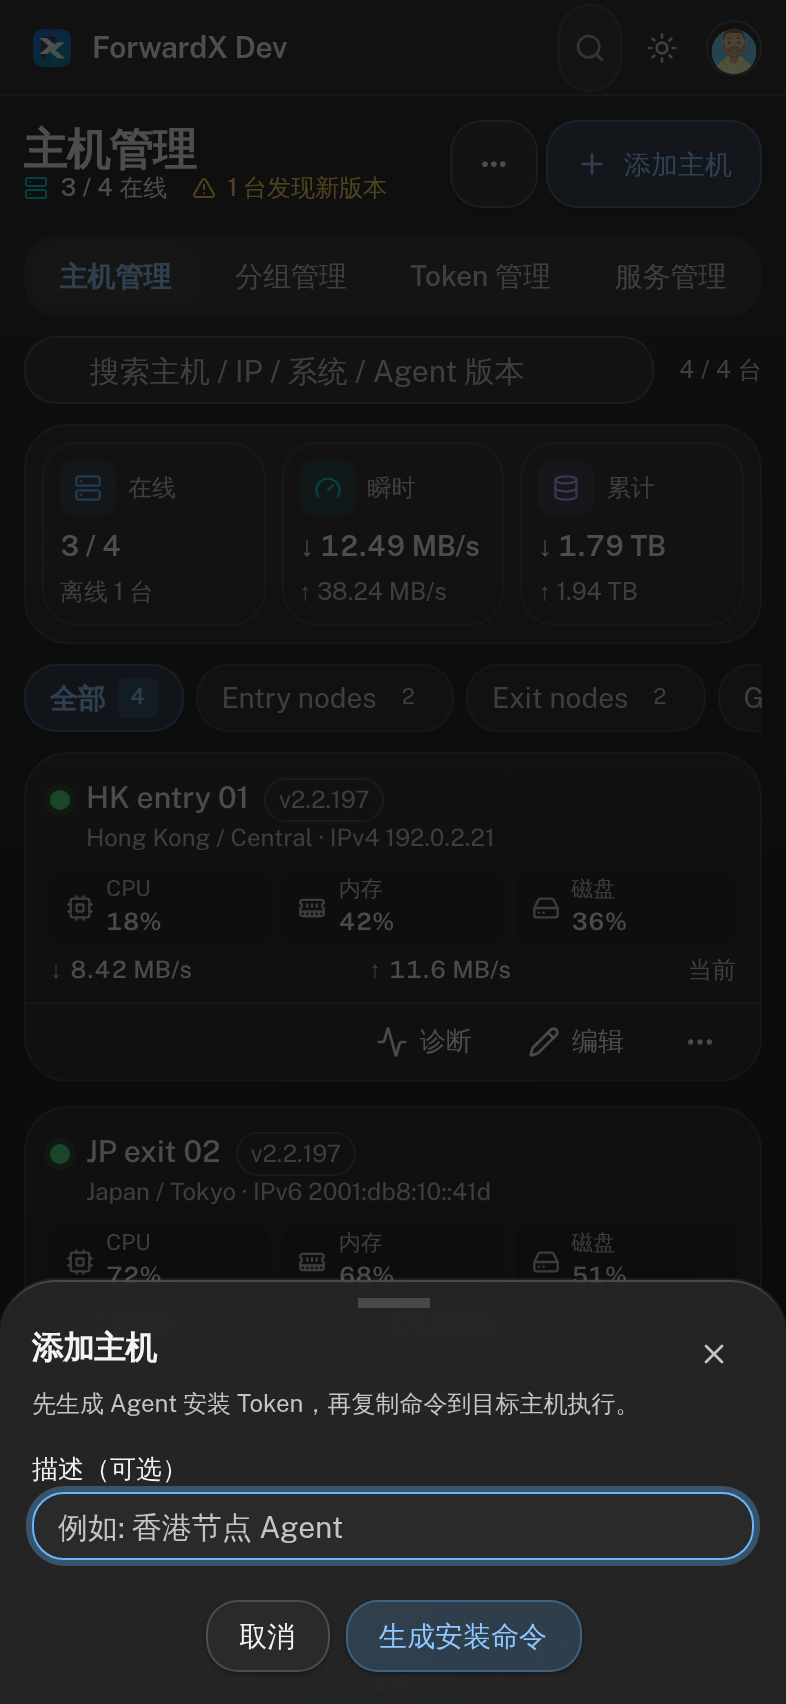
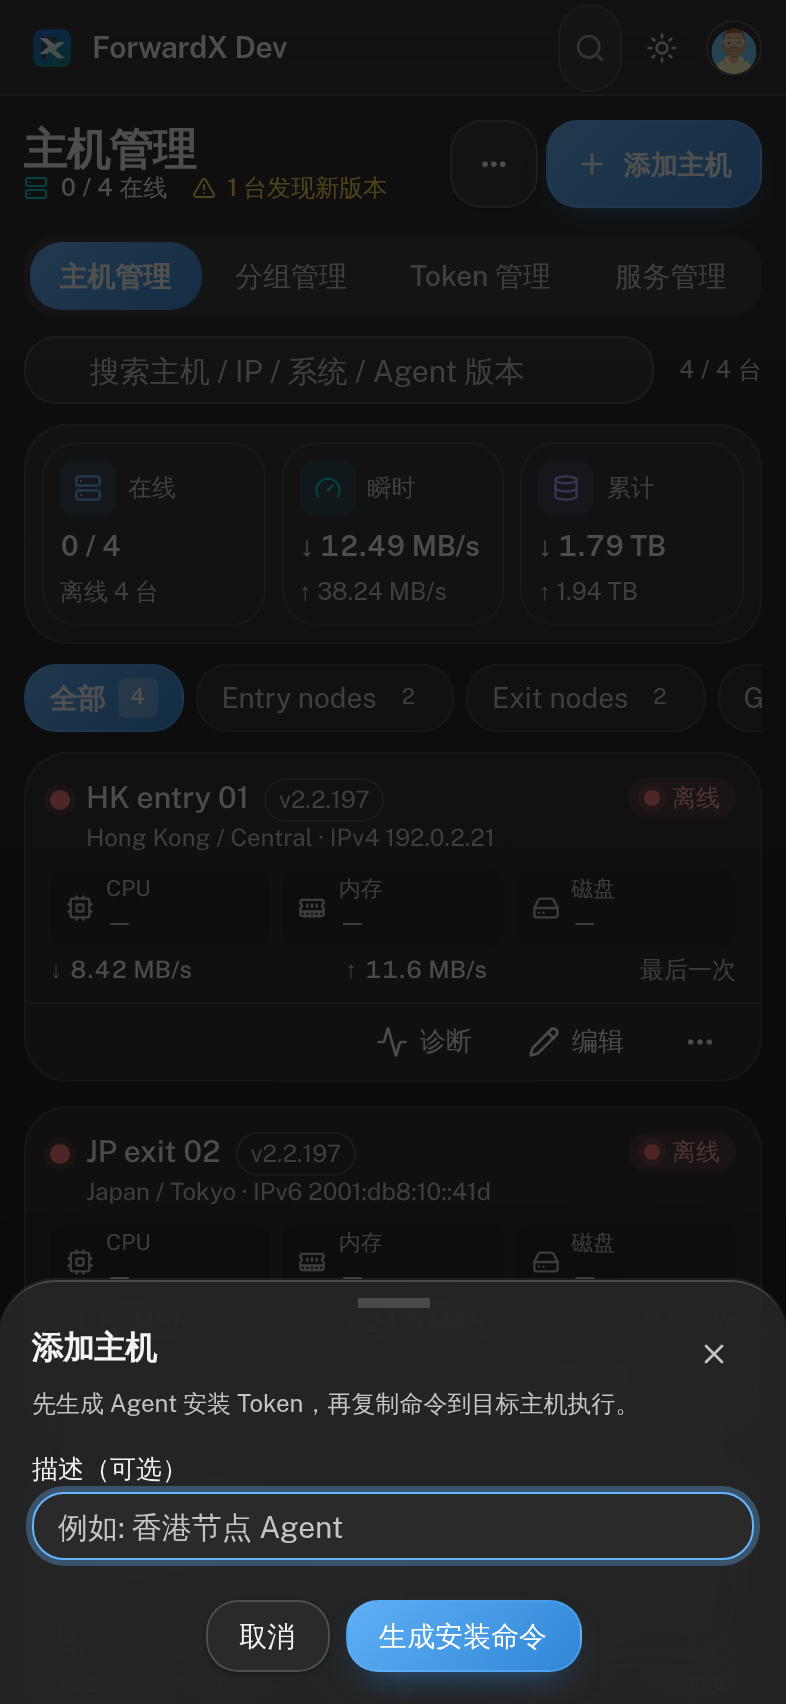
主色控件全部改成天蓝渐变
用户第三轮反馈：不止画圈的三处，所有主色控件都要改成渐变色。渐变取 kfchost 主按钮量到的值
（135deg #8ccfff → #56aaf2，白字，一圈淡线），新令牌 --fx-primary-gradient / -gradient-hover /
-sheen / -text / -stroke / -shadow，深色 #5fb0f5 → #2f86d6。

一起变的：Button default、桌面和手机的分段选中项、主机分组 chip、侧栏选中项、iOS 开关和 Radix 开关的开、
复选框的勾、分页当前页、首页 journey switch。

进度条和默认徽标不直接铺渐变图，走终点色 + 一层白色高光（--fx-primary-sheen）：它们的调用方会传状态色
（主机 CPU / 内存 / 磁盘条的绿黄红、超额的红、软底徽标），不透明的渐变图会把状态色盖掉，高光不会。

截图（after/）按最新状态重拍；文档和 CHANGELOG 同步。

Claude-Session: https://claude.ai/code/session_01D4F5S9bacpgTT23HG89MY2

diff --git a/client/src/styles/workspace.css b/client/src/styles/workspace.css
@@ -67,8 +67,8 @@
 .workspace-layout [data-sidebar="menu-button"] { color: var(--fx-text-secondary); font-size: 14px; font-weight: 500; min-height: 32px; padding-inline: 8px; border-radius: 10px; }
 .workspace-layout [data-sidebar="menu-button"] > svg { color: var(--fx-text-muted); }
 .workspace-layout [data-sidebar="menu-button"]:hover { color: var(--fx-text); background: var(--fx-hover); }
-.workspace-layout [data-sidebar="menu-button"][data-active="true"] { background: var(--fx-accent-soft); color: var(--fx-accent); font-weight: 500; box-shadow: none; }
-.workspace-layout [data-sidebar="menu-button"][data-active="true"] > svg { color: var(--fx-accent); }
+.workspace-layout [data-sidebar="menu-button"][data-active="true"] { background: var(--fx-primary-gradient); color: var(--fx-primary-text); font-weight: 600; box-shadow: none; }
+.workspace-layout [data-sidebar="menu-button"][data-active="true"] > svg { color: var(--fx-primary-text); }
 .workspace-layout [data-sidebar="group-label"] { opacity: 1; color: var(--fx-text-muted); font-size: 11px; font-weight: 500; letter-spacing: .08em; text-transform: uppercase; }
 .workspace-layout [data-mobile-header] { background: var(--fx-surface); border-color: var(--fx-stroke-weak); box-shadow: 0 1px 4px rgb(0 0 0 / 4%); }
 /*
@@ -87,12 +87,12 @@
 .workspace-tabs .workspace-tabs-list { display: flex; width: max-content; min-width: 100%; height: auto; justify-content: flex-start; gap: 2px; padding: 0; border: 0; border-radius: var(--fx-radius); background: transparent; }
 .workspace-tabs .workspace-tab { position: relative; flex: 1 0 auto; gap: 6px; min-height: 28px; border: 0; border-radius: calc(var(--fx-radius-control) - 4px); padding: 4px 12px; color: var(--fx-text-secondary); background: transparent; box-shadow: none; --tw-ring-shadow: 0 0 #0000; font-size: 13px; font-weight: 500; transition: color 150ms, background-color 150ms, box-shadow 150ms; }
 .workspace-tabs .workspace-tab > svg { color: var(--fx-text-muted); }
-.workspace-tabs .workspace-tab[data-state="active"] { color: var(--fx-text); background: var(--fx-l1-surface); box-shadow: var(--fx-elevation-control); font-weight: 600; }
-.workspace-tabs .workspace-tab[data-state="active"] > svg { color: var(--fx-text); }
-.dark .workspace-tabs .workspace-tab[data-state="active"] { background: var(--fx-hover); box-shadow: none; }
+.workspace-tabs .workspace-tab[data-state="active"] { color: var(--fx-primary-text); background: var(--fx-primary-gradient); box-shadow: none; font-weight: 600; }
+.workspace-tabs .workspace-tab[data-state="active"] > svg { color: var(--fx-primary-text); }
+.dark .workspace-tabs .workspace-tab[data-state="active"] { background: var(--fx-primary-gradient); box-shadow: none; }
 /* 计数是名字后面一个淡色的数，不是一枚胶囊 —— 胶囊会和旁边的状态徽标抢眼 */
 .workspace-tab-count { display: inline-flex; align-items: center; color: var(--fx-text-muted); font-size: 12px; font-weight: 500; font-variant-numeric: tabular-nums; }
-.workspace-tab[data-state="active"] .workspace-tab-count { color: var(--fx-text-muted); }
+.workspace-tab[data-state="active"] .workspace-tab-count { color: color-mix(in srgb, var(--fx-primary-text) 85%, transparent); }
 /*
   一行可以左右滑的选择条（主机分组那一排）。和分类条同一个道理：overflow-y 写明 hidden，
   只左右滑、不上下晃；滚动条藏起来。宽屏上放得下，照旧折行、不滚。
@@ -129,7 +129,8 @@
   按钮：主按钮和描边按钮各带一层 1px 的软影（把它从面上托起半毫米），幽灵按钮没有。
   按下时不缩放、不下沉 —— 只把底色再压深一档（--fx-pressed），反馈清楚又不晃。
 */
-[data-slot="button"][data-variant="default"], [data-slot="button"][data-variant="outline"], [data-slot="button"][data-variant="destructive"] { box-shadow: var(--fx-elevation-control); }
+[data-slot="button"][data-variant="outline"], [data-slot="button"][data-variant="destructive"] { box-shadow: var(--fx-elevation-control); }
+[data-slot="button"][data-variant="default"] { box-shadow: var(--fx-primary-shadow); }
 [data-slot="button"] { transition: background-color 120ms, color 120ms, box-shadow 120ms, border-color 120ms; }
 [data-slot="button"][data-variant="outline"]:active, [data-slot="button"][data-variant="ghost"]:active, [data-slot="button"][data-variant="secondary"]:active { background: var(--fx-pressed); }
 [data-slot="input"], [data-slot="textarea"], [data-slot="select-trigger"] { box-shadow: none; transition: border-color 120ms, box-shadow 120ms; }
@@ -556,10 +557,10 @@
     要左右滑，左边还压着一个滚动箭头。换成数字之后五项一屏放得下。
   */
   .workspace-tabs .workspace-tab { border: 0; border-radius: var(--fx-radius); gap: 3px; font-size: 14px; font-weight: 500; min-height: 34px; padding: 0 7px; }
-  /* 选中项：天蓝淡底 + 天蓝字（iOS tinted），不再是实心蓝底白字 —— 真机反馈那块太重 */
+  /* 选中项：天蓝渐变 + 白字（全站主色控件同一道渐变，见令牌 --fx-primary-gradient） */
   .workspace-tabs .workspace-tab[data-state="active"] {
-    background: var(--fx-primary-fill); color: var(--fx-primary-text); font-weight: 600;
-    box-shadow: inset 0 0 0 1px var(--fx-primary-stroke);
+    background: var(--fx-primary-gradient); color: var(--fx-primary-text); font-weight: 600;
+    box-shadow: none;
   }
   .workspace-tab-count {
     min-width: 0; height: auto; padding: 0; border-radius: 0;
@@ -568,7 +569,7 @@
   /* 选中块反色之后数字也跟着反过来，否则青底上一个深灰数字看不见 */
   .workspace-tabs .workspace-tab[data-state="active"] .workspace-tab-count {
     background: transparent;
-    color: color-mix(in srgb, var(--fx-primary-text) 78%, transparent);
+    color: color-mix(in srgb, var(--fx-primary-text) 85%, transparent);
   }
 
   /*
@@ -867,7 +868,7 @@
 /* 三步上手 */
 .public-journey-switch { display: flex; gap: 2px; padding: 3px; border: 1px solid var(--fx-stroke-weak); border-radius: var(--fx-radius-pill); background: var(--fx-l1-surface); }
 .public-journey-switch button { min-height: 34px; padding: 6px 16px; border-radius: var(--fx-radius-pill); font-size: 13px; font-weight: 500; color: var(--fx-text-secondary); transition: color 120ms, background-color 120ms; }
-.public-journey-switch button[aria-pressed="true"] { background: var(--fx-primary-fill); color: var(--fx-primary-text); box-shadow: inset 0 0 0 1px var(--fx-primary-stroke); }
+.public-journey-switch button[aria-pressed="true"] { background: var(--fx-primary-gradient); color: var(--fx-primary-text); box-shadow: none; }
 .public-journey { display: grid; grid-template-columns: repeat(3, minmax(0, 1fr)); gap: 24px; margin: 0; padding: 0; list-style: none; }
 .public-journey li { min-width: 0; padding: 24px; border: 1px solid var(--fx-stroke-weak); border-radius: var(--fx-radius-surface); background: var(--fx-l1-surface); }
 .public-journey-icon { position: relative; display: grid; place-items: center; width: 56px; height: 56px; margin-bottom: 20px; border: 1px solid var(--fx-stroke-weak); border-radius: 16px; background: var(--fx-l2-group); color: var(--fx-text); }
@@ -1324,7 +1325,7 @@
   transition: background-color 180ms ease;
   -webkit-tap-highlight-color: transparent;
 }
-.fx-ios-switch[aria-checked="true"] { background: var(--fx-accent-fill); }
+.fx-ios-switch[aria-checked="true"] { background: var(--fx-primary-gradient); }
 .fx-ios-switch-knob {
   position: absolute;
   top: 2px;
@@ -1446,3 +1447,11 @@
 @supports not ((backdrop-filter: blur(1px)) or (-webkit-backdrop-filter: blur(1px))) {
   .dialog-panel, .action-menu-content, [role="menu"], [role="listbox"] { background-color: var(--fx-raised); }
 }
+
+/*
+  主色控件全部同一道渐变（--fx-primary-gradient）：按钮和分段项在各自的规则里，这里补上
+  开关的开和复选的勾 —— 它们的组件类写的是 bg-primary 实色，渐变靠 background-image 盖上去。
+  进度条和默认徽标不在这里：它们的调用方会传状态色，渐变写在组件里（底色 + 白色高光），见 ui/progress.tsx、ui/badge.tsx。
+*/
+[data-slot="switch"][data-state="checked"] { background-image: var(--fx-primary-gradient); }
+[data-slot="checkbox"]:checked { background-image: var(--fx-primary-gradient); border-color: transparent; }

diff --git a/shared/design-tokens.css b/shared/design-tokens.css
@@ -113,15 +113,22 @@
   --fx-accent-fill: #0b74d1;
   --fx-accent-fill-foreground: #ffffff;
   /*
-    主按钮、选中的分段项、选中的分类 chip：**不再是一块实心的蓝底白字**。真机反馈那三块
-    "画圈的按钮颜色不喜欢" —— 饱和的皇家蓝实底在一屏白纸上太重。改成 iOS 的 tinted 做法：
-    天蓝兑 16% 的淡底、天蓝的字、一圈天蓝兑 28% 的线。开关 / 复选 / 进度条这类「状态」控件
-    还是用上面的 --fx-accent-fill，那里实底是对的（滑块要有对比）。
+    主色控件（主按钮、选中的分段项、选中的分类 chip、开关的开、复选的勾、进度条、侧栏选中项）
+    **全部是一道天蓝渐变**：照 kfchost 主按钮量到的 `135deg rgba(140,207,255,.96) → rgba(86,170,242,.92)`，
+    白字，一圈 `rgba(143,194,235,.66)` 的线。真机反馈第一轮圈了实心皇家蓝太重，第二轮说淡底也不要，
+    要的是渐变 —— 那就渐变。--fx-primary-fill 是渐变的终点色，铺在渐变底下兜底。
+    进度条和默认徽标不直接铺这道渐变：它们的调用方会传状态色（绿 / 黄 / 红），一张不透明的
+    渐变图会把状态色盖掉。那两处用「底色 + 一层白色高光」（--fx-primary-sheen）：底色是
+    --fx-primary-fill 时和渐变几乎一样，换成状态色时高光照旧、颜色照旧看得见。
   */
-  --fx-primary-fill: rgb(62 164 236 / 16%);
-  --fx-primary-fill-hover: rgb(62 164 236 / 24%);
-  --fx-primary-text: #0b6ec6;
-  --fx-primary-stroke: rgb(62 164 236 / 28%);
+  --fx-primary-gradient: linear-gradient(135deg, #8ccfff 0%, #56aaf2 100%);
+  --fx-primary-gradient-hover: linear-gradient(135deg, #7cc6fc 0%, #449ded 100%);
+  --fx-primary-sheen: linear-gradient(135deg, rgb(255 255 255 / 36%) 0%, rgb(255 255 255 / 0%) 100%);
+  --fx-primary-fill: #56aaf2;
+  --fx-primary-fill-hover: #449ded;
+  --fx-primary-text: #ffffff;
+  --fx-primary-stroke: rgb(143 194 235 / 66%);
+  --fx-primary-shadow: 0 8px 18px -10px rgb(86 170 242 / 70%);
   /* 毛玻璃：顶栏、底部标签栏、分段控件、弹层用。底色半透明 + 背后模糊，见 workspace.css 的 .fx-glass */
   --fx-glass: rgb(255 255 255 / 66%);
   --fx-glass-strong: rgb(255 255 255 / 78%);
@@ -466,10 +473,14 @@
   --fx-accent-soft: rgb(62 164 236 / 22%);
   --fx-accent-fill: #0e72bc;   /* 参考站深色主按钮 oklch(0.54 0.142 248.5)：炭灰上不刺 */
   --fx-accent-fill-foreground: #ffffff;
-  --fx-primary-fill: rgb(102 182 255 / 18%);
-  --fx-primary-fill-hover: rgb(102 182 255 / 26%);
-  --fx-primary-text: #8ec8ff;
-  --fx-primary-stroke: rgb(102 182 255 / 30%);
+  --fx-primary-gradient: linear-gradient(135deg, #5fb0f5 0%, #2f86d6 100%);
+  --fx-primary-gradient-hover: linear-gradient(135deg, #6ebaf8 0%, #3b93e2 100%);
+  --fx-primary-sheen: linear-gradient(135deg, rgb(255 255 255 / 30%) 0%, rgb(255 255 255 / 0%) 100%);
+  --fx-primary-fill: #2f86d6;
+  --fx-primary-fill-hover: #3b93e2;
+  --fx-primary-text: #ffffff;
+  --fx-primary-stroke: rgb(102 182 255 / 40%);
+  --fx-primary-shadow: 0 8px 18px -10px rgb(47 134 214 / 80%);
   --fx-glass: rgb(38 38 38 / 66%);
   --fx-glass-strong: rgb(42 42 42 / 78%);
   --fx-glass-blur: saturate(160%) blur(20px);

diff --git a/client/src/pages/Hosts.tsx b/client/src/pages/Hosts.tsx
@@ -1124,7 +1124,7 @@ function HostGroupFilterBar({
   const chipClass = (active: boolean) => [
     "inline-flex h-[34px] shrink-0 items-center gap-1.5 rounded-[var(--fx-radius-control)] px-3 text-sm transition-colors sm:h-9 sm:gap-2",
     active
-      ? "border border-[var(--fx-primary-stroke)] bg-[var(--fx-primary-fill)] font-semibold text-[var(--fx-primary-text)]"
+      ? "border border-[var(--fx-primary-stroke)] bg-[var(--fx-primary-fill)] bg-[image:var(--fx-primary-gradient)] font-semibold text-[var(--fx-primary-text)]"
       : "border border-[var(--fx-stroke-weak)] bg-[var(--fx-l1-surface)] text-muted-foreground hover:text-foreground",
   ].join(" ");
   const countForGroup = (group: HostGroupView) => Number(groupCounts[Number(group.id)] || 0);
@@ -1139,7 +1139,7 @@ function HostGroupFilterBar({
       <button type="button" className={chipClass(selectedGroupId === "all")} onClick={() => onSelectGroup("all")}>
         <Server className="h-3.5 w-3.5 max-sm:hidden" />
         <span>全部</span>
-        <span className={cn("rounded px-1.5 py-0.5 text-[11px] tabular-nums", selectedGroupId === "all" ? "bg-[var(--fx-primary-fill)] text-[var(--fx-primary-text)]" : "text-muted-foreground")}>{totalHosts}</span>
+        <span className={cn("rounded px-1.5 py-0.5 text-[11px] tabular-nums", selectedGroupId === "all" ? "bg-white/25 text-[var(--fx-primary-text)]" : "text-muted-foreground")}>{totalHosts}</span>
       </button>
       {enabledGroups.map((group) => (
         <button
@@ -1151,7 +1151,7 @@ function HostGroupFilterBar({
         >
           <FolderKanban className="h-3.5 w-3.5 max-sm:hidden" />
           <span className="max-w-[160px] truncate">{group.name}</span>
-          <span className={cn("rounded px-1.5 py-0.5 text-[11px] tabular-nums", selectedGroupId === Number(group.id) ? "bg-[var(--fx-primary-fill)] text-[var(--fx-primary-text)]" : "text-muted-foreground")}>{countForGroup(group)}</span>
+          <span className={cn("rounded px-1.5 py-0.5 text-[11px] tabular-nums", selectedGroupId === Number(group.id) ? "bg-white/25 text-[var(--fx-primary-text)]" : "text-muted-foreground")}>{countForGroup(group)}</span>
         </button>
       ))}
     </div>

diff --git a/client/src/components/ui/progress.tsx b/client/src/components/ui/progress.tsx
@@ -2,9 +2,14 @@ import * as React from "react"
 import * as ProgressPrimitive from "@radix-ui/react-progress"
 import { cn } from "@/lib/utils"
 
+/*
+  填充条：底色是主色渐变的终点色，上面压一层白色高光（--fx-primary-sheen），看起来就是全站那道天蓝渐变。
+  不直接铺 --fx-primary-gradient，因为调用方会用 `[&>div]:bg-[var(--fx-down)]` 这类类名把条子染成状态色
+  （主机 CPU / 内存 / 磁盘的绿黄红、超额的红）—— 一张不透明的渐变图会把状态色整个盖掉，高光不会。
+*/
 const Progress = React.forwardRef<React.ComponentRef<typeof ProgressPrimitive.Root>, React.ComponentPropsWithoutRef<typeof ProgressPrimitive.Root>>(({ className, value, ...props }, ref) => (
   <ProgressPrimitive.Root ref={ref} className={cn("relative h-4 w-full overflow-hidden rounded-full bg-secondary", className)} {...props}>
-    <ProgressPrimitive.Indicator className="h-full w-full flex-1 bg-primary transition-all" style={{ transform: `translateX(-${100 - (value || 0)}%)` }} />
+    <ProgressPrimitive.Indicator className="h-full w-full flex-1 bg-[var(--fx-primary-fill)] bg-[image:var(--fx-primary-sheen)] transition-all" style={{ transform: `translateX(-${100 - (value || 0)}%)` }} />
   </ProgressPrimitive.Root>
 ))
 Progress.displayName = ProgressPrimitive.Root.displayName

diff --git a/client/src/components/ui/button.tsx b/client/src/components/ui/button.tsx
@@ -11,7 +11,7 @@ import { cn } from "@/lib/utils"
 const buttonVariants = cva("inline-flex items-center justify-center gap-2 whitespace-nowrap rounded-md text-[13.5px] font-medium transition-colors focus-visible:outline-none disabled:pointer-events-none disabled:opacity-50", {
   variants: {
     variant: {
-      default: "border border-[var(--fx-primary-stroke)] bg-[var(--fx-primary-fill)] text-[var(--fx-primary-text)] hover:bg-[var(--fx-primary-fill-hover)]",
+      default: "border border-[var(--fx-primary-stroke)] bg-[var(--fx-primary-fill)] bg-[image:var(--fx-primary-gradient)] font-semibold text-[var(--fx-primary-text)] hover:bg-[image:var(--fx-primary-gradient-hover)]",
       destructive: "bg-destructive text-destructive-foreground hover:bg-destructive/90",
       outline: "border border-[var(--fx-stroke-base)] bg-[var(--fx-l1-surface)] text-foreground hover:bg-[var(--fx-hover)]",
       secondary: "bg-[var(--fx-l3-control-fill)] text-foreground hover:bg-[var(--fx-hover)]",

diff --git a/client/src/components/ui/badge.tsx b/client/src/components/ui/badge.tsx
@@ -9,7 +9,12 @@ import { cn } from "@/lib/utils"
 const badgeVariants = cva("inline-flex shrink-0 items-center whitespace-nowrap rounded-full border px-2 py-0.5 text-[11.5px] font-medium leading-4 transition-colors focus:outline-none", {
   variants: {
     variant: {
-      default: "border-transparent bg-primary text-primary-foreground",
+      /*
+        默认徽标：主色渐变的终点色 + 一层白色高光，和主按钮是同一道天蓝渐变。不直接铺
+        --fx-primary-gradient：调用方常用 className 把它染成状态色（`bg-[var(--fx-healthy-soft)]` 之类），
+        tailwind-merge 会把这里的底色换掉，但换不掉一张渐变图，图会把状态色盖住；高光是半透明的，盖不住。
+      */
+      default: "border-transparent bg-[var(--fx-primary-fill)] bg-[image:var(--fx-primary-sheen)] text-[var(--fx-primary-text)]",
       /*
         secondary 是**静态**徽标（TCP / UDP / 计数），不是悬停态。
 

diff --git a/docs/UI_PREMIUM_POLISH.md b/docs/UI_PREMIUM_POLISH.md
@@ -202,13 +202,17 @@ Vexo 的控制台没登录看不到，它的形状照 New API 源码（`web/src/
 Badge 一律去底去边只留字色（realm / gost / socat 的分类色留着），地址那种 `code` 不再套小框，
 `PersistentPagination` 换成参考站那排小按钮、不再给整条分页描一个框。手机上仍是整卡横向滚动。
 
-**主按钮不再是实心蓝。** 用户在手机截图上圈了三处：「添加主机」主按钮、分段控件里选中的
-「主机管理」、分类条里选中的「全部 4」—— 共同点是饱和的皇家蓝实底 + 白字，一屏白纸上太重。
-改成 iOS 的 tinted 做法：天蓝兑 16% 的淡底、天蓝的字（`#0b6ec6`，白底上 5.4:1）、一圈天蓝兑
-28% 的线；深色是天蓝兑 18% + `#8ec8ff`。走新令牌 `--fx-primary-fill / -text / -stroke /
--fill-hover`，主按钮（`Button` 的 default）、手机分段控件选中项、主机分组 chip 选中项、首页的
-journey switch 一起变。开关 / 复选框 / 进度条**不跟**：那些是状态控件，实底（`--fx-accent-fill`）
-是对的，白滑块要有对比。备选（没用）：炭灰实底白字，或参考站原色 `#3ea4ec` 实底。
+**主色控件全部改成一道天蓝渐变。** 用户在手机截图上圈了三处（「添加主机」主按钮、分段控件里选中的
+「主机管理」、分类条里选中的「全部 4」），嫌饱和的皇家蓝实底太重；先改成 iOS 的 tinted 淡底，用户说
+不止这三处、要的是**全部改成渐变色**。渐变取 kfchost 主按钮量到的值：`135deg rgba(140,207,255,.96) →
+rgba(86,170,242,.92)`，白字，一圈 `rgba(143,194,235,.66)` 的线，下面一点同色的柔影；深色是
+`#5fb0f5 → #2f86d6`。走令牌 `--fx-primary-gradient / -text / -stroke / -shadow`（`--fx-primary-fill`
+是渐变的终点色，铺在渐变底下兜底），一起变的有：`Button` default、分段控件选中项（桌面手机都是）、
+主机分组 chip 选中项、侧栏选中项、开关的开、复选框的勾、分页当前页、首页 journey switch。进度条和默认
+徽标走的是「终点色 + 一层白色高光」（`--fx-primary-sheen`）而不是那张渐变图：它们的调用方会传状态色
+（主机 CPU / 内存 / 磁盘条的绿黄红、超额的红、`--fx-healthy-soft` 这类软底徽标），不透明的渐变图会把
+状态色盖掉，半透明的高光不会 —— 默认时看起来和渐变一样，染了色也还是那个颜色。白字压在浅天蓝上对比
+只有 3:1 左右，靠 600 字重补 —— 这是参考站的做法，用户要的。
 
 **毛玻璃（照 iOS 26/27 的材质）。** 只给固定不动的外壳和浮在内容上面的弹层：顶栏、手机底部
 标签栏（`--fx-glass` 66% 白 + `saturate(180%) blur(20px)`），分段控件的槽（72% 灰 + `blur(12px)`），

diff --git a/CHANGELOG.md b/CHANGELOG.md
@@ -8,7 +8,7 @@
 - **统计块**：`SummaryStrip` 和总览页顶部改成「白卡里一排小格」—— 图标底座 + 标签、等宽大数、一行小灰字；总览页右侧一块淡渐变的「当前状态」面，带「查看 N 处需要关注」按钮。图表色板换成参考站的五位。
 - **字体和圆角**：Public Sans Variable 替换 Inter Variable；圆角四档 16 / 18 / 22 / 28（参考站实测值）。
 - **手机主机卡**：CPU / 内存 / 磁盘一行改成三个小灰方块（照 kfchost 套餐卡的规格格）。
-- **主按钮、选中的分段项和分类 chip 不再是实心蓝底白字**：改成天蓝淡底 + 天蓝字 + 一圈淡线（iOS tinted），新令牌 `--fx-primary-*`；开关 / 复选 / 进度条仍是实底。
+- **主色控件全部改成一道天蓝渐变**（照 kfchost 主按钮：`135deg #8ccfff → #56aaf2`，白字）：主按钮、分段控件选中项、分类 chip 选中项、侧栏选中项、开关、复选框、分页当前页；进度条和默认徽标是终点色 + 白色高光（调用方传的状态色照旧看得见）。新令牌 `--fx-primary-gradient / -sheen / -text / -stroke / -shadow`。
 - **毛玻璃**：顶栏、手机底部标签栏、分段控件、对话框 / 底部 sheet / 下拉菜单改成半透明 + 背后模糊（`--fx-glass`），滚动的内容不做模糊，不支持的浏览器退回实底。
 - **数据表**：照 Vexo 模型广场的表格视图 —— 16px 圆角卡包表、40px 灰字透明表头、60px 行、1px 行线无斑马纹、表里标签改成彩色文字（realm / gost / socat 的分类色不变）、地址不套小框、分页换成一排 32px 圆角小按钮。转发规则、链路、用户、账单等所有表一起变。
 - **卡顿**：服务端加 gzip 和 `/assets` 一年缓存（入口 JS 850 kB 原来每次原样下）；头像库（445 kB）空闲时再取；动画库改 `LazyMotion` + 动态功能包；切页前先预取那一页的代码（标签栏按下、侧栏悬停、首屏空闲）。入口包 850 → 787 kB（gzip 269 → 244 kB）。
